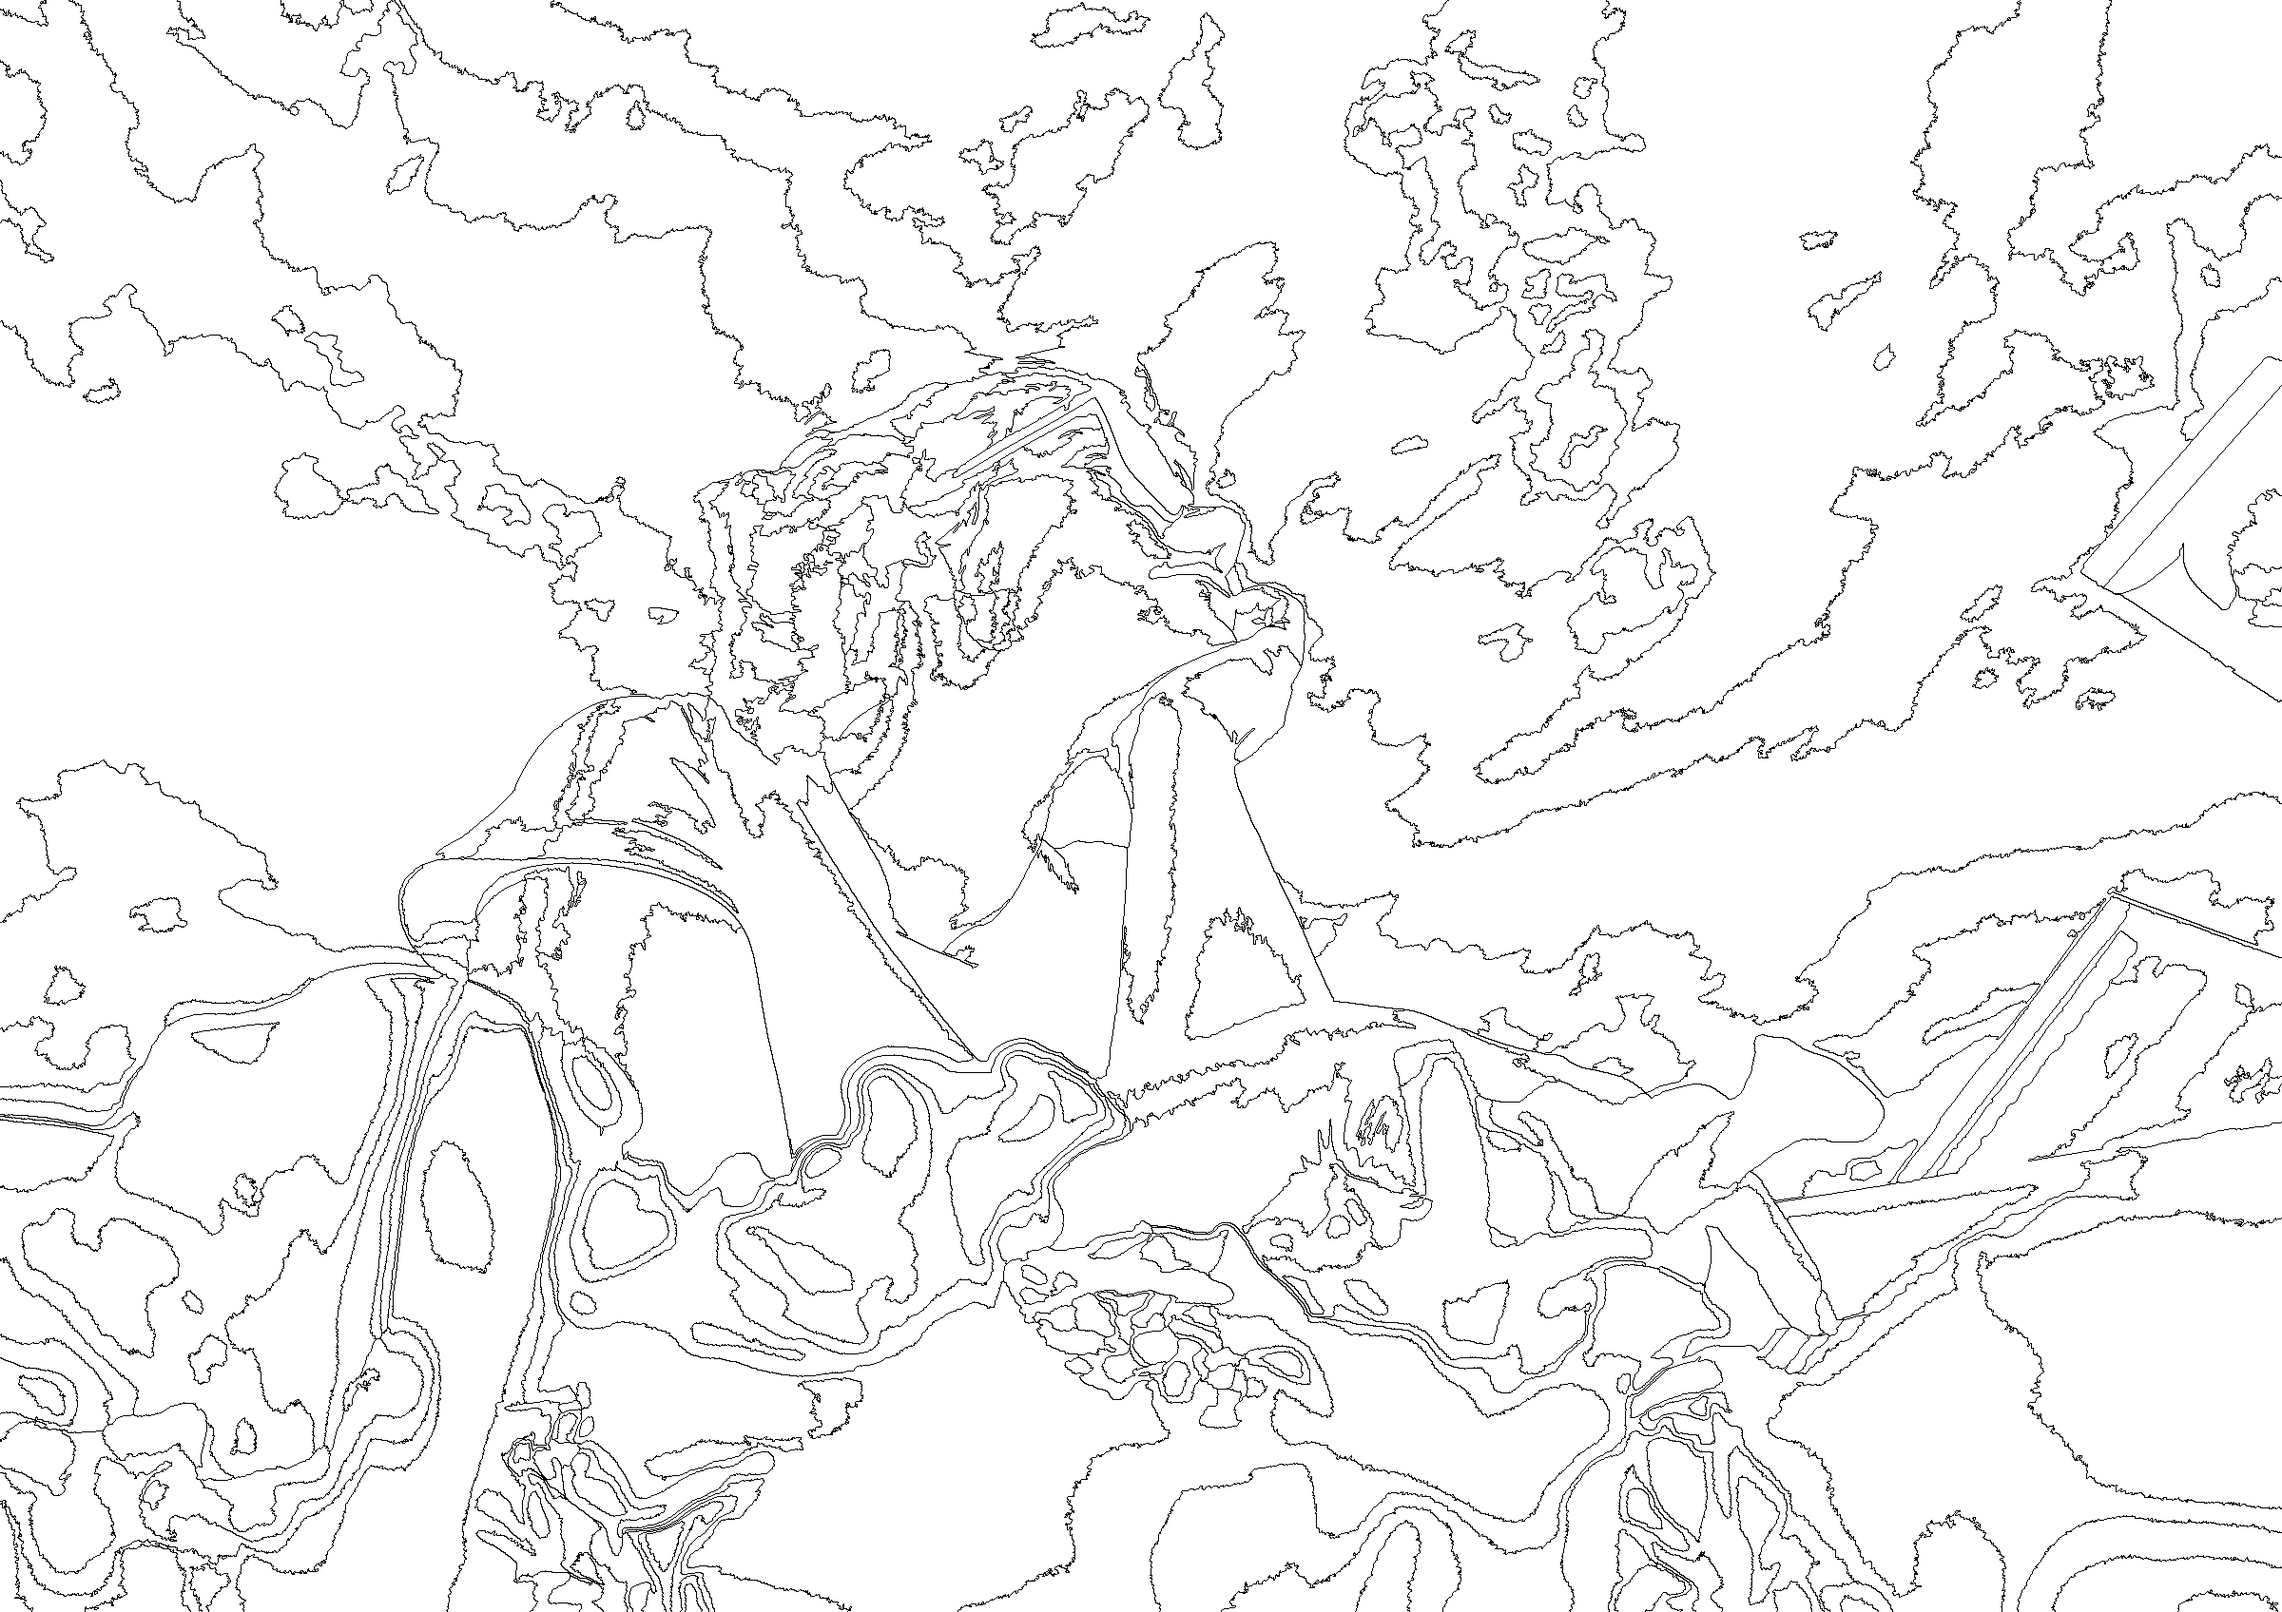
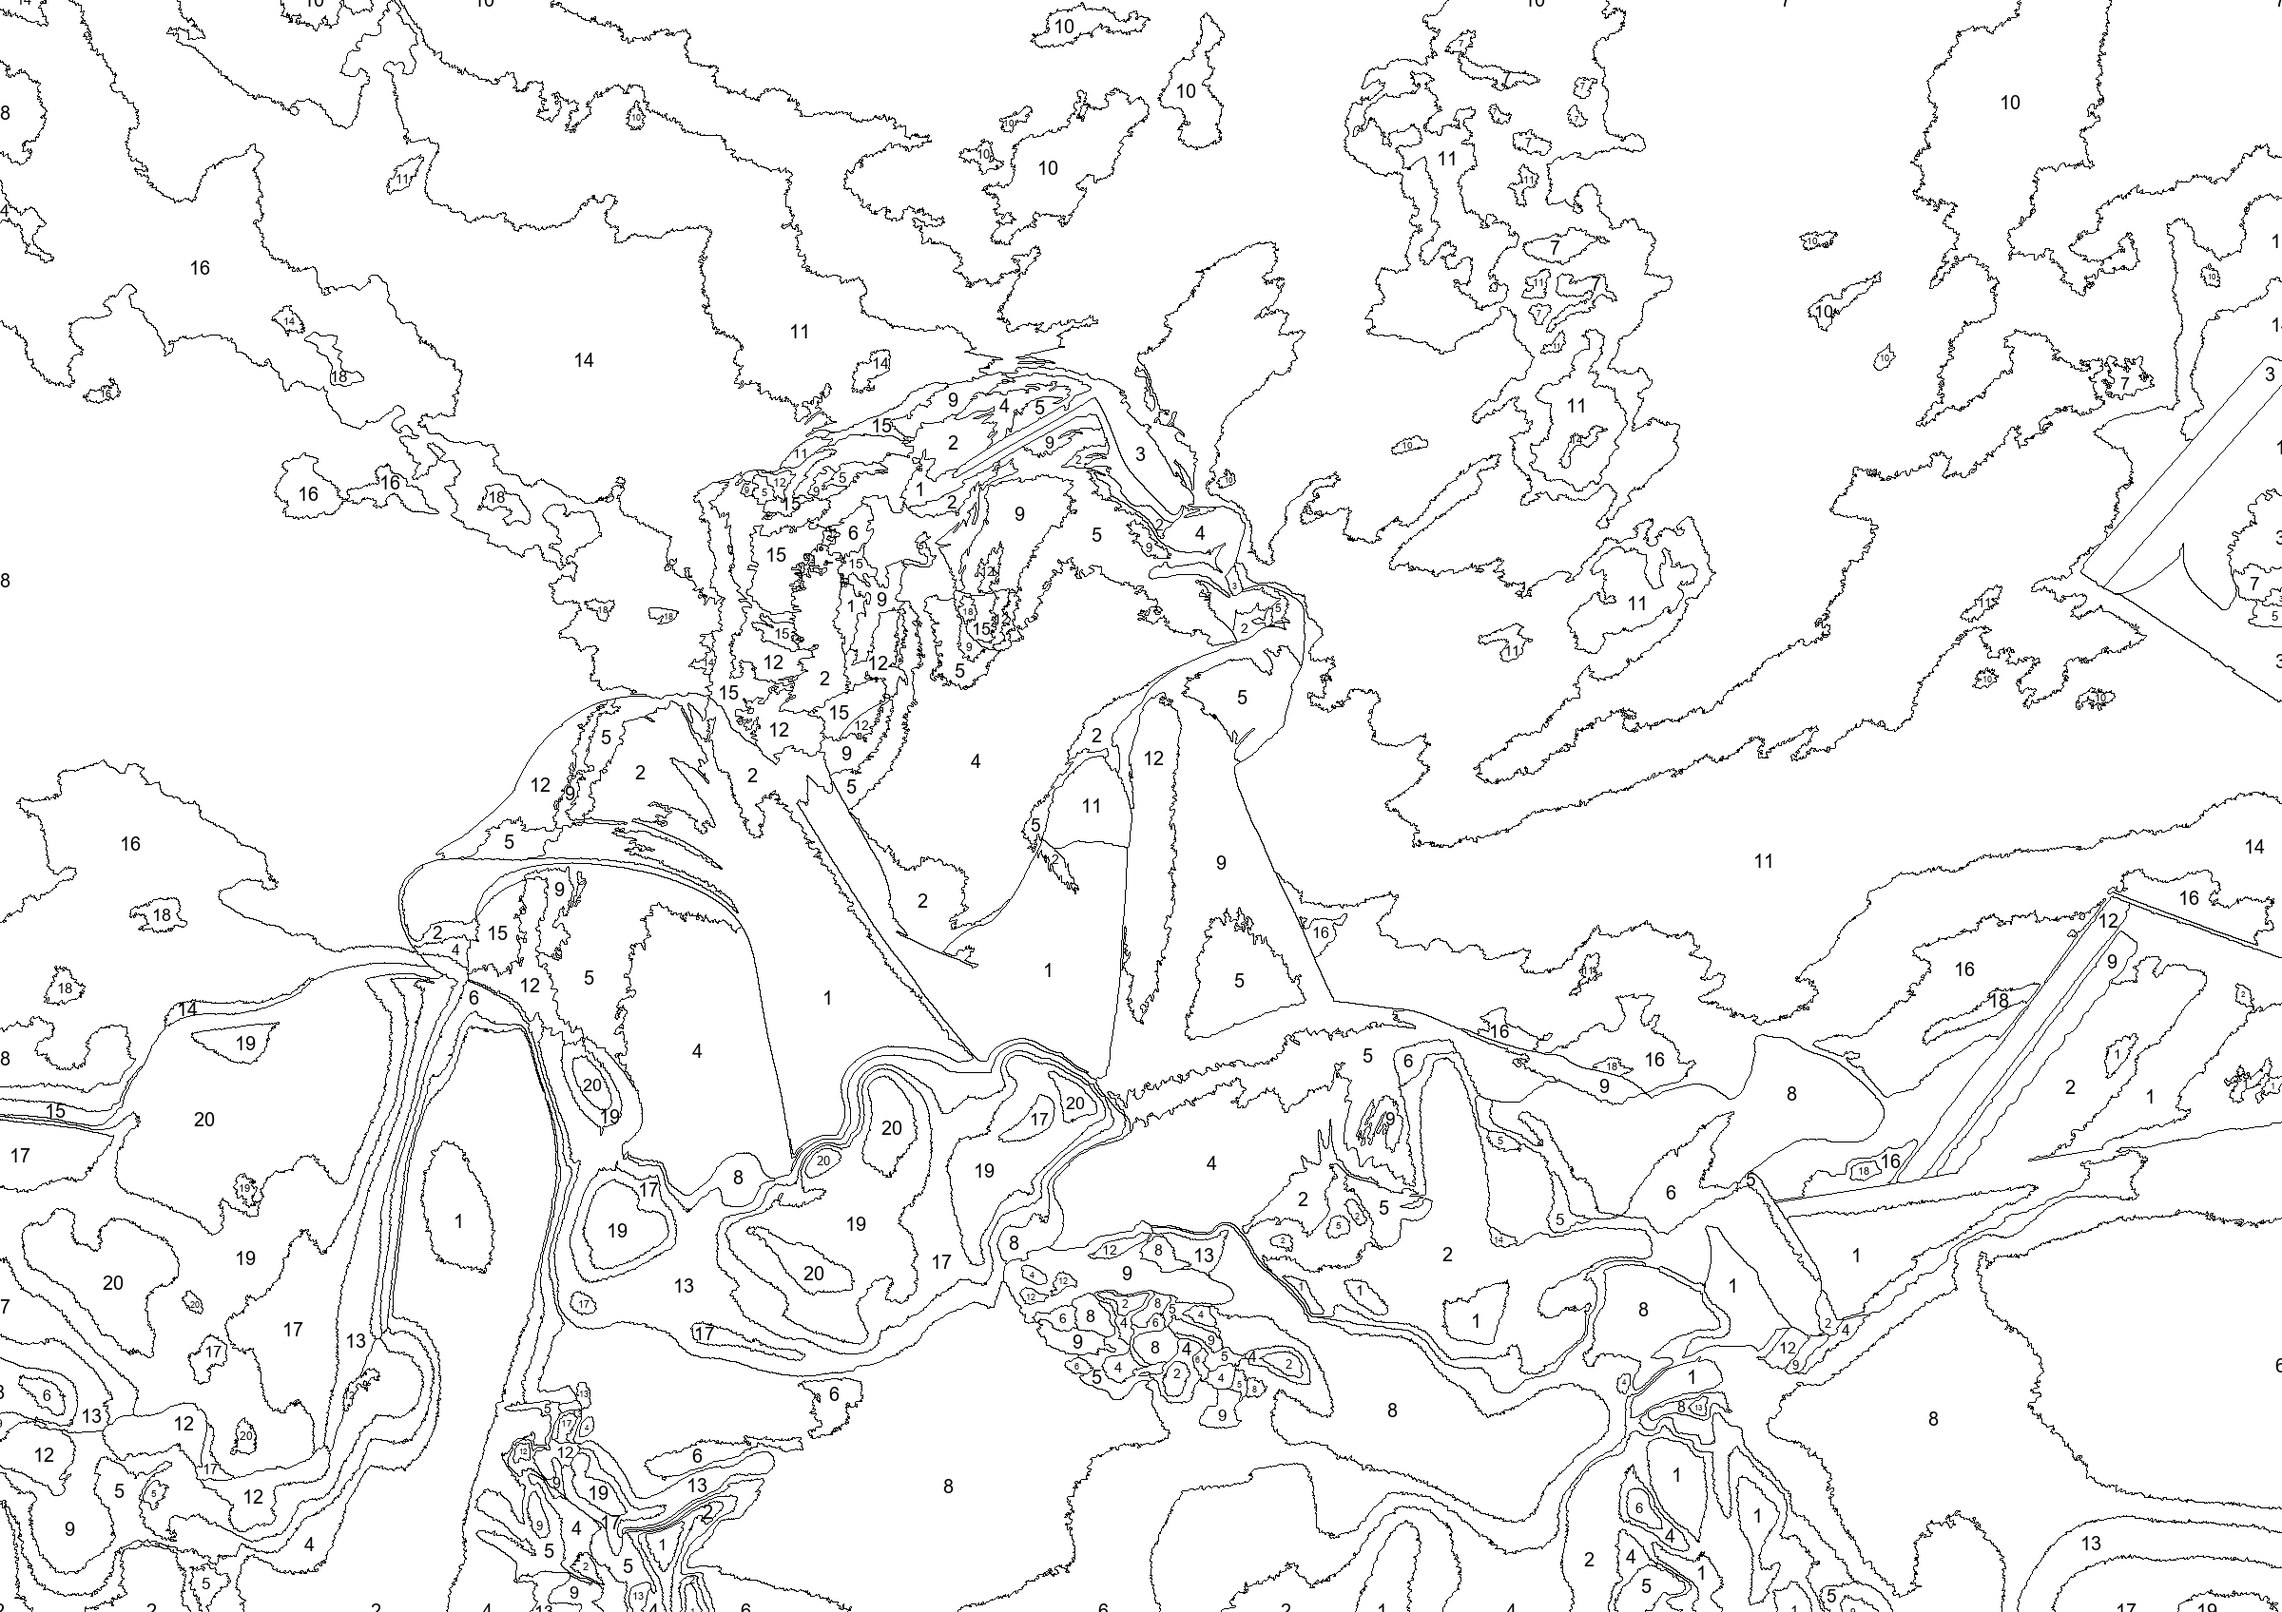
early implementation of labeling image

diff --git a/src/pbn/canvas/canvas_utils/outline_image.py b/src/pbn/canvas/canvas_utils/outline_image.py
@@ -1,4 +1,8 @@
 import numpy as np
+from PIL import Image, ImageDraw, ImageFont
+from scipy.ndimage import distance_transform_edt
+
+from pbn.canvas.canvas_utils.process_image import label_facets
 
 
 def create_outline_mask(image: np.ndarray) -> np.ndarray:
@@ -27,3 +31,103 @@ def create_image_outline(image: np.ndarray, outline_mask: np.ndarray, outline_co
     outlined = np.full_like(image, 255)
     outlined[outline_mask] = np.array(outline_color, dtype=outlined.dtype)
     return outlined
+
+
+
+def compute_facets_properties(
+    image: np.ndarray,
+    min_font_px: int,
+    max_font_px: int,
+    font_scale: float,
+) -> tuple[list[tuple[int, int]], list[int], np.ndarray]:
+    """
+    Compute per-facet label metadata: centers, suggested font sizes, and colors.
+
+    - Centers: maximal inscribed circle via distance transform (centroid fallback).
+    - Font sizes: sqrt(area) * font_scale, clamped to [min_font_px, max_font_px].
+    - Colors: representative RGB for each facet from the labeled image.
+    """
+    labels_img, facet_sizes, facet_colors = label_facets(image=image)
+    h, w = labels_img.shape
+    num_facets = int(labels_img.max()) + 1
+
+    facet_centers: list[tuple[int, int]] = []
+    facet_font_sizes: list[int] = []
+
+    for facet_id in range(num_facets):
+        mask = labels_img == facet_id
+        if not np.any(mask):
+            facet_centers.append((0, 0))
+            continue
+
+        dist = distance_transform_edt(mask)
+        max_idx = int(np.argmax(dist))
+        max_dist = dist.flat[max_idx]
+        y, x = divmod(max_idx, w)
+
+        if max_dist <= 0:
+            ys, xs = np.nonzero(mask)
+            y = int(np.round(ys.mean()))
+            x = int(np.round(xs.mean()))
+
+        facet_centers.append((y, x))
+
+    for facet_size in facet_sizes:
+        estimated = int(np.round(np.sqrt(max(facet_size, 1)) * font_scale))
+        facet_font_sizes.append(int(np.clip(estimated, min_font_px, max_font_px)))
+
+    return facet_centers, facet_font_sizes, facet_colors
+
+
+def _map_palette_indices(facet_colors: np.ndarray) -> list[int]:
+    """
+    Map each facet's RGB color to a deterministic palette index (1-based).
+    """
+    unique_colors = sorted({tuple(color.tolist()) for color in facet_colors})
+    color_to_idx = {color: idx + 1 for idx, color in enumerate(unique_colors)}
+    return [color_to_idx[tuple(color.tolist())] for color in facet_colors]
+
+
+def _load_font(size: int) -> ImageFont.FreeTypeFont | ImageFont.ImageFont:
+    """
+    Try to load a TrueType font; fall back to Pillow's default bitmap font.
+    """
+    try:
+        return ImageFont.truetype("arial.ttf", size=size)
+    except Exception:
+        return ImageFont.load_default()
+
+
+def create_image_with_color_labels(
+    image: np.ndarray,
+    outline_image: np.ndarray,
+    min_font_px: int,
+    max_font_px: int,
+    font_scale: float,
+    text_color: tuple[int, int, int],
+) -> np.ndarray:
+    """
+    Render palette indices at facet centers onto a provided base image.
+
+    - `image` (RGB) supplies facet geometry for centers and palette ids.
+    - `outline_image` (RGB) is the layer to draw on (e.g., outlined image).
+    - Palette index is deterministic from facet RGB values (1-based).
+    - Returns an RGB numpy array with labels drawn.
+    """
+    facet_centers, facet_font_sizes, facet_colors = compute_facets_properties(
+        image=image,
+        min_font_px=min_font_px,
+        max_font_px=max_font_px,
+        font_scale=font_scale,
+    )
+    palette_indices = _map_palette_indices(facet_colors)
+
+    labeled_outline_image = outline_image.copy()
+    labeled_outline_image = Image.fromarray(labeled_outline_image, mode="RGB")
+    draw = ImageDraw.Draw(labeled_outline_image)
+
+    for (y, x), label, font_size in zip(facet_centers, palette_indices, facet_font_sizes):
+        font = _load_font(font_size)
+        draw.text((int(x), int(y)), str(label), fill=text_color, font=font, anchor="mm")
+
+    return np.array(labeled_outline_image, dtype=outline_image.dtype)

diff --git a/src/pbn/canvas/canvas.py b/src/pbn/canvas/canvas.py
@@ -7,10 +7,19 @@ from PIL import Image
 from pbn.canvas.canvas_utils.cluster_image import cluster_image
 from pbn.canvas.canvas_utils.prepare_image import prepare_image
 from pbn.canvas.canvas_utils.process_image import process_image
-from pbn.canvas.canvas_utils.outline_image import create_outline_mask, create_image_outline
+from pbn.canvas.canvas_utils.outline_image import (
+    create_outline_mask,
+    create_image_outline,
+    create_image_with_color_labels,
+)
 from pbn.config.pbn_config import (
     MIN_FACET_PIXELS_SIZE, 
-    NARROW_FACET_THRESHOLD_PX
+    NARROW_FACET_THRESHOLD_PX,
+    MIN_FONT_PX,
+    MAX_FONT_PX,
+    FONT_SCALE,
+    FACET_LABEL_COLOR,
+    FACET_OUTLINE_COLOR
 )
 
 @dataclass(frozen=True)
@@ -23,7 +32,6 @@ class Canvas:
     prepared_image: np.ndarray
     clustered_image: np.ndarray
     processed_image: np.ndarray
-    processed_facets: np.ndarray
     outlined_image: np.ndarray
 
     @classmethod
@@ -40,7 +48,7 @@ class Canvas:
             canvas_page_size=canvas_page_size
         )
         clustered_image = cls._cluster_image(image=prepared_image, n_colors=n_colors)
-        processed_image, processed_facets = cls._process_image(image=clustered_image)
+        processed_image = cls._process_image(image=clustered_image)
         outlined_image = cls._outline_image(image=processed_image)
 
         return cls(
@@ -51,7 +59,6 @@ class Canvas:
             prepared_image=prepared_image,
             clustered_image=clustered_image,
             processed_image=processed_image,
-            processed_facets=processed_facets,
             outlined_image=outlined_image,
         )
 
@@ -76,7 +83,7 @@ class Canvas:
         return cluster_image(image=image, n_colors=n_colors)
 
     @staticmethod
-    def _process_image(image: np.ndarray) -> tuple[np.ndarray, np.ndarray]:
+    def _process_image(image: np.ndarray) -> np.ndarray:
         """
         Process clustered image by:
         1. Finding small facets and merging them
@@ -92,5 +99,17 @@ class Canvas:
     @staticmethod
     def _outline_image(image: np.ndarray) -> np.ndarray:
         outline_mask = create_outline_mask(image=image)
-        outline_image = create_image_outline(image=image, outline_mask=outline_mask, outline_color=(0, 0, 0))
-        return outline_image
+        outline_image = create_image_outline(
+            image=image,
+            outline_mask=outline_mask,
+            outline_color=FACET_OUTLINE_COLOR,
+        )
+        # return outline_image
+        return create_image_with_color_labels(
+            image=image,
+            outline_image=outline_image,
+            min_font_px=MIN_FONT_PX,
+            max_font_px=MAX_FONT_PX,
+            font_scale=FONT_SCALE,
+            text_color=FACET_LABEL_COLOR,
+        )

diff --git a/src/pbn/canvas/canvas_utils/process_image.py b/src/pbn/canvas/canvas_utils/process_image.py
@@ -11,7 +11,7 @@ def process_image(
     image: np.ndarray,
     min_facet_size: int,
     narrow_thresh_px: int,
-) -> tuple[np.ndarray, np.ndarray]:
+) -> np.ndarray:
     """
     Process clustered image by:
     1. Finding small facets and merging them
@@ -19,15 +19,12 @@ def process_image(
     3. Reindexing facet ids to a compact 0..N-1 range
     """
     small_merged_array, _ = process_small_facets(image=image, min_facet_size=min_facet_size)
-    narrow_merged_array, narrow_facets = process_narrow_facets(
+    narrow_merged_array, _ = process_narrow_facets(
         image=small_merged_array,
         narrow_thresh_px=narrow_thresh_px,
     )
 
-    _, dense_inverse = np.unique(narrow_facets, return_inverse=True)
-    dense_facets = dense_inverse.reshape(narrow_facets.shape).astype(np.int32)
-
-    return narrow_merged_array, dense_facets
+    return narrow_merged_array
 
 
 def process_small_facets(image: np.ndarray, min_facet_size: int) -> tuple[np.ndarray, np.ndarray]:

diff --git a/src/pbn/config/pbn_config.py b/src/pbn/config/pbn_config.py
@@ -1,14 +1,3 @@
-"""
-FACET_SIZE_FONT_SIZE_CONFIG: config to determine facet label point font size based on facet size.
-    Config format: {font_size: (min_size, max_size)}, where None in max_size means infinity.
-"""
-
-FACET_SIZE_FONT_SIZE_CONFIG = {
-    8: (0, 50),
-    12: (51, 200),
-    16: (200, None),
-}
-
 CANVAS_SIZE_CONFIG = {
     "A4": {
         "LANDSCAPE": {
@@ -24,3 +13,9 @@ CANVAS_SIZE_CONFIG = {
 
 MIN_FACET_PIXELS_SIZE = 50
 NARROW_FACET_THRESHOLD_PX = 10
+
+MIN_FONT_PX = 8
+MAX_FONT_PX = 20
+FONT_SCALE = 0.5
+FACET_LABEL_COLOR = (0, 0, 0)
+FACET_OUTLINE_COLOR = (0, 0, 0)

diff --git a/src/runscripts/kmeans_canvas_init.py b/src/runscripts/kmeans_canvas_init.py
@@ -30,7 +30,6 @@ canvas = Canvas.create_canvas(
 
 processed_facets_img = canvas.processed_image
 print(f"\nProcessed image shape: {processed_facets_img.shape}")
-print(f"Unique facet ids (processed): {np.unique(canvas.processed_facets).size}")
 
 processed_path = Path("data/input_image/processed_canvas.png")
 
